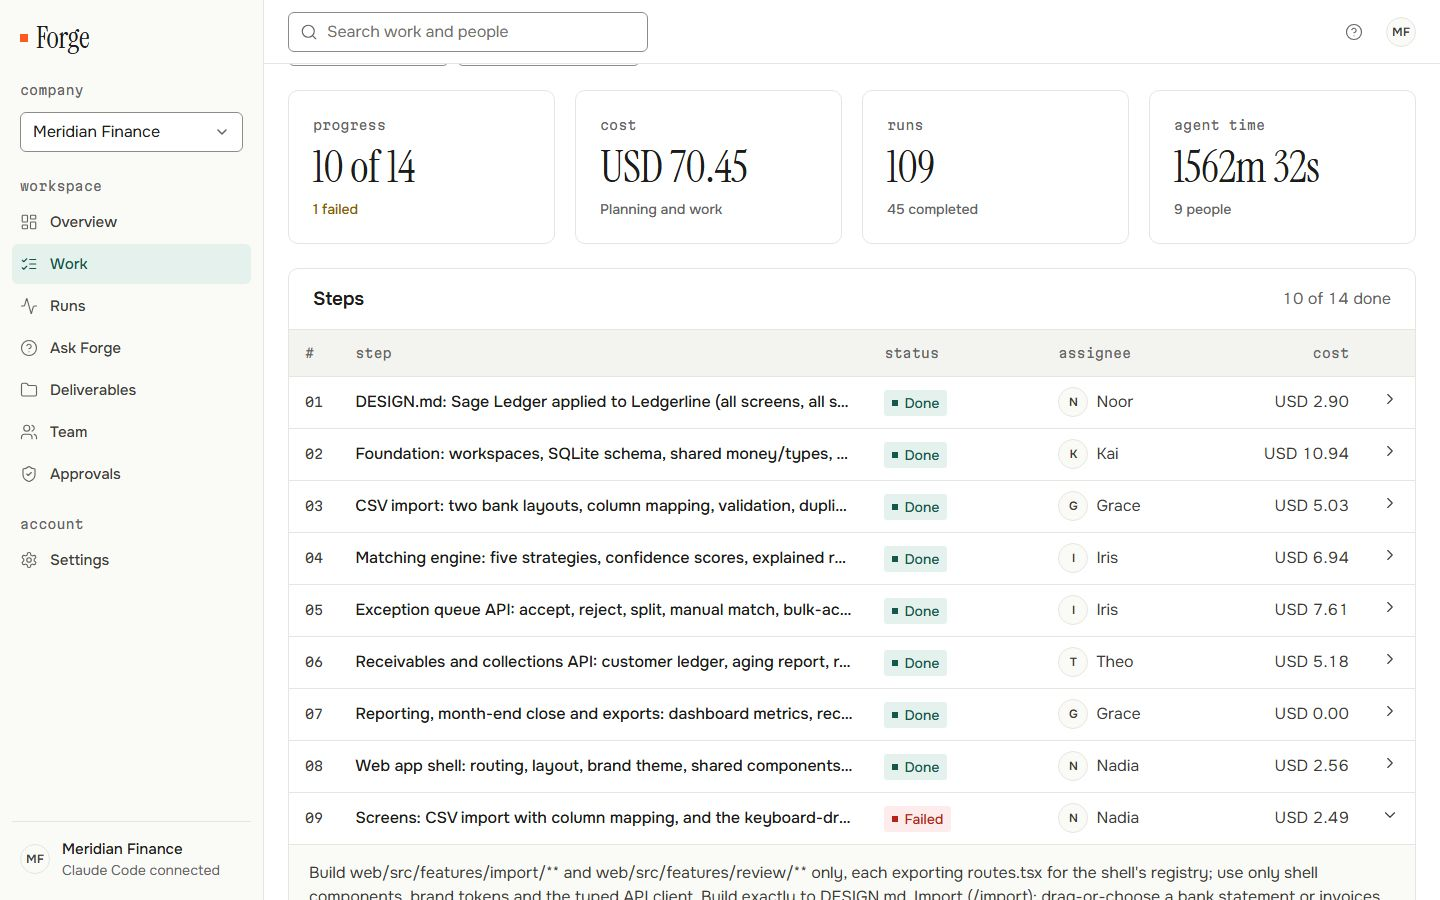
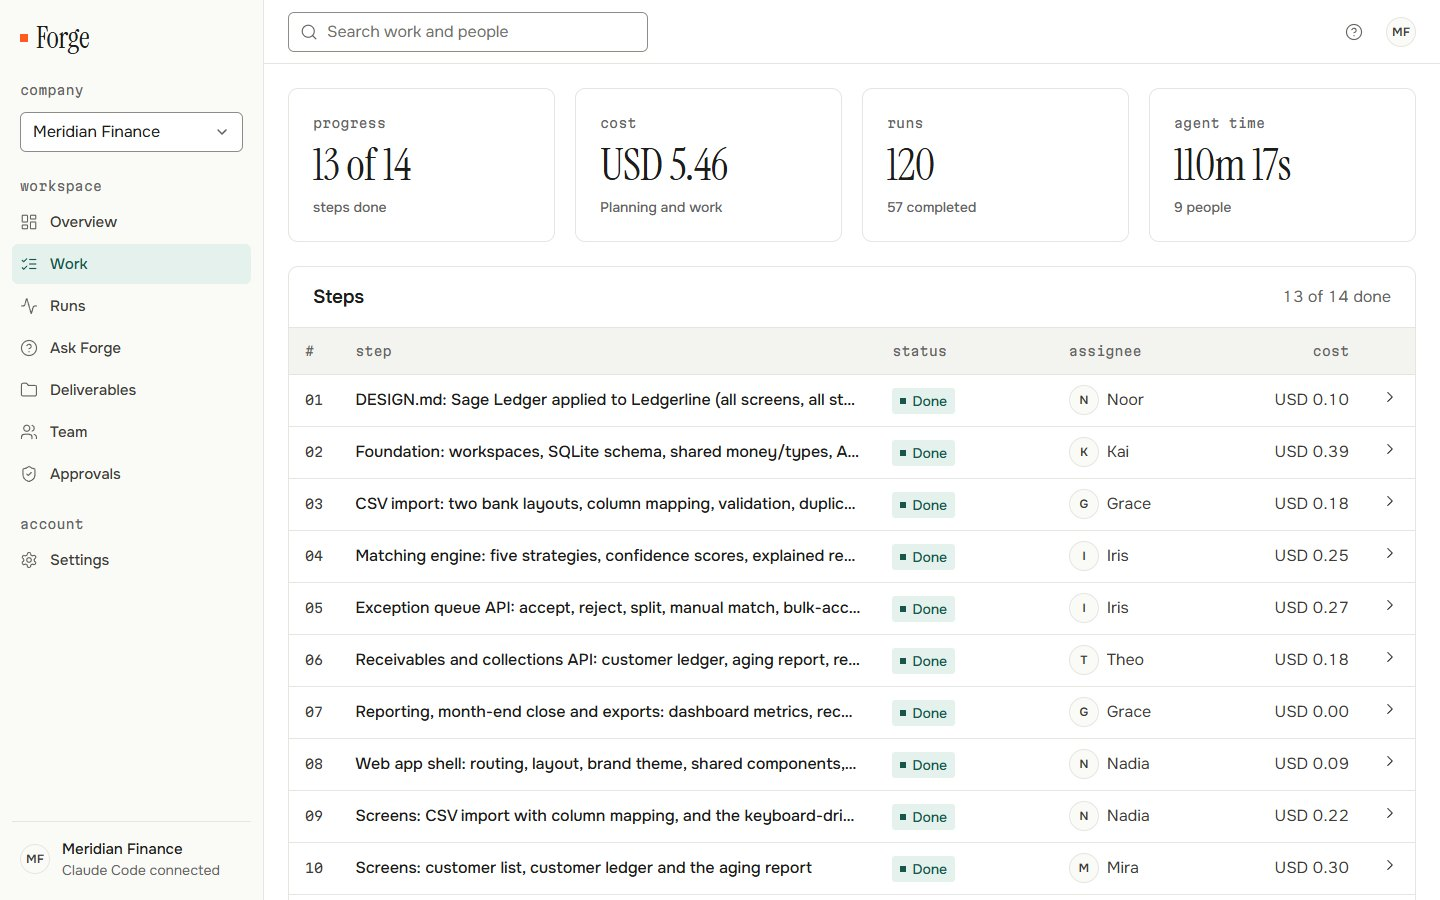
docs: website console screenshots show the finished Ledgerline goal

diff --git a/website/index.html b/website/index.html
@@ -268,7 +268,7 @@
           </div>
 
           <div class="panel" role="tabpanel" id="p-goal" aria-labelledby="t-goal" hidden>
-            <figure class="frame"><img src="assets/console-goal.jpg" width="1440" height="900" loading="lazy" alt="A goal board: progress 10 of 14, cost, runs and agent time, then every step with its status, assignee and cost." /></figure>
+            <figure class="frame"><img src="assets/console-goal.jpg" width="1440" height="900" loading="lazy" alt="A goal board: progress 13 of 14, cost, runs and agent time, then every step with its status, assignee and cost." /></figure>
             <div class="panel-text">
               <h3>Goal board</h3>
               <p>Every step of a goal: who owns it, its status, cost and checks.</p>
